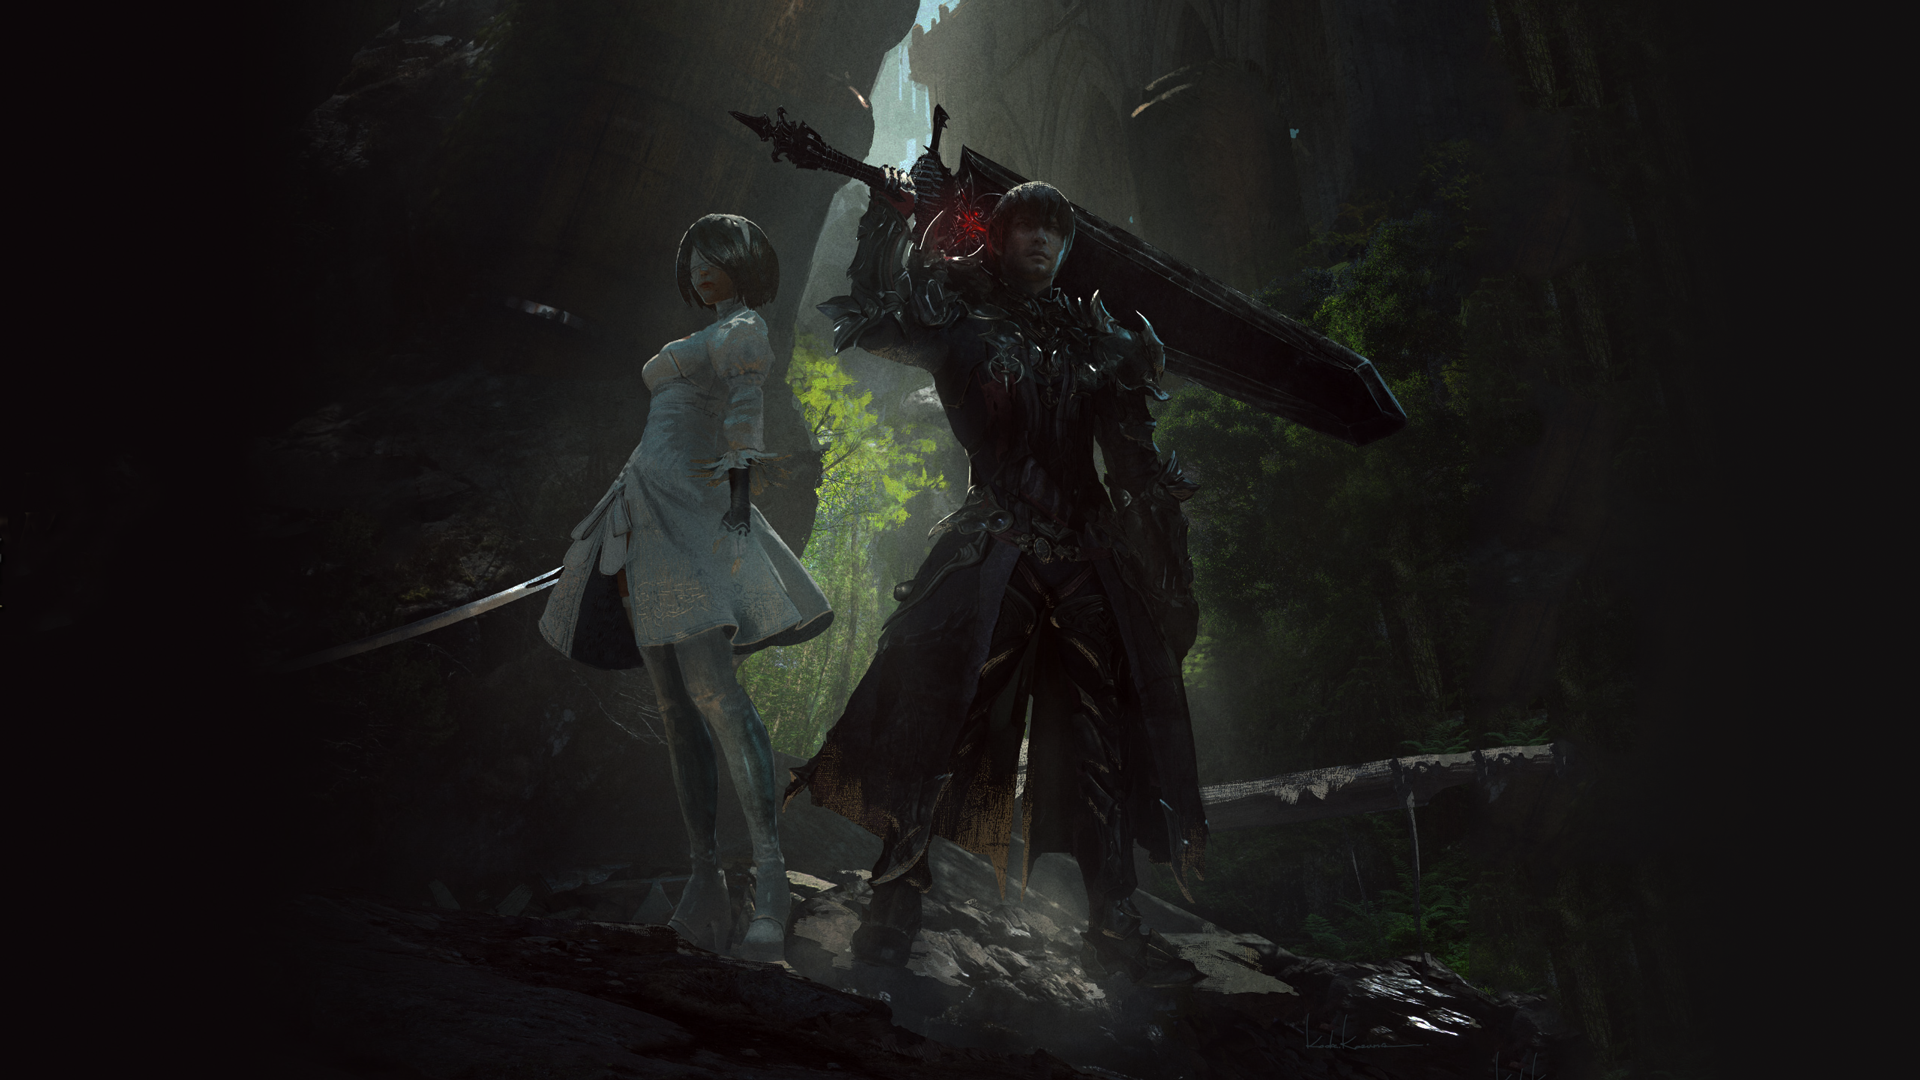
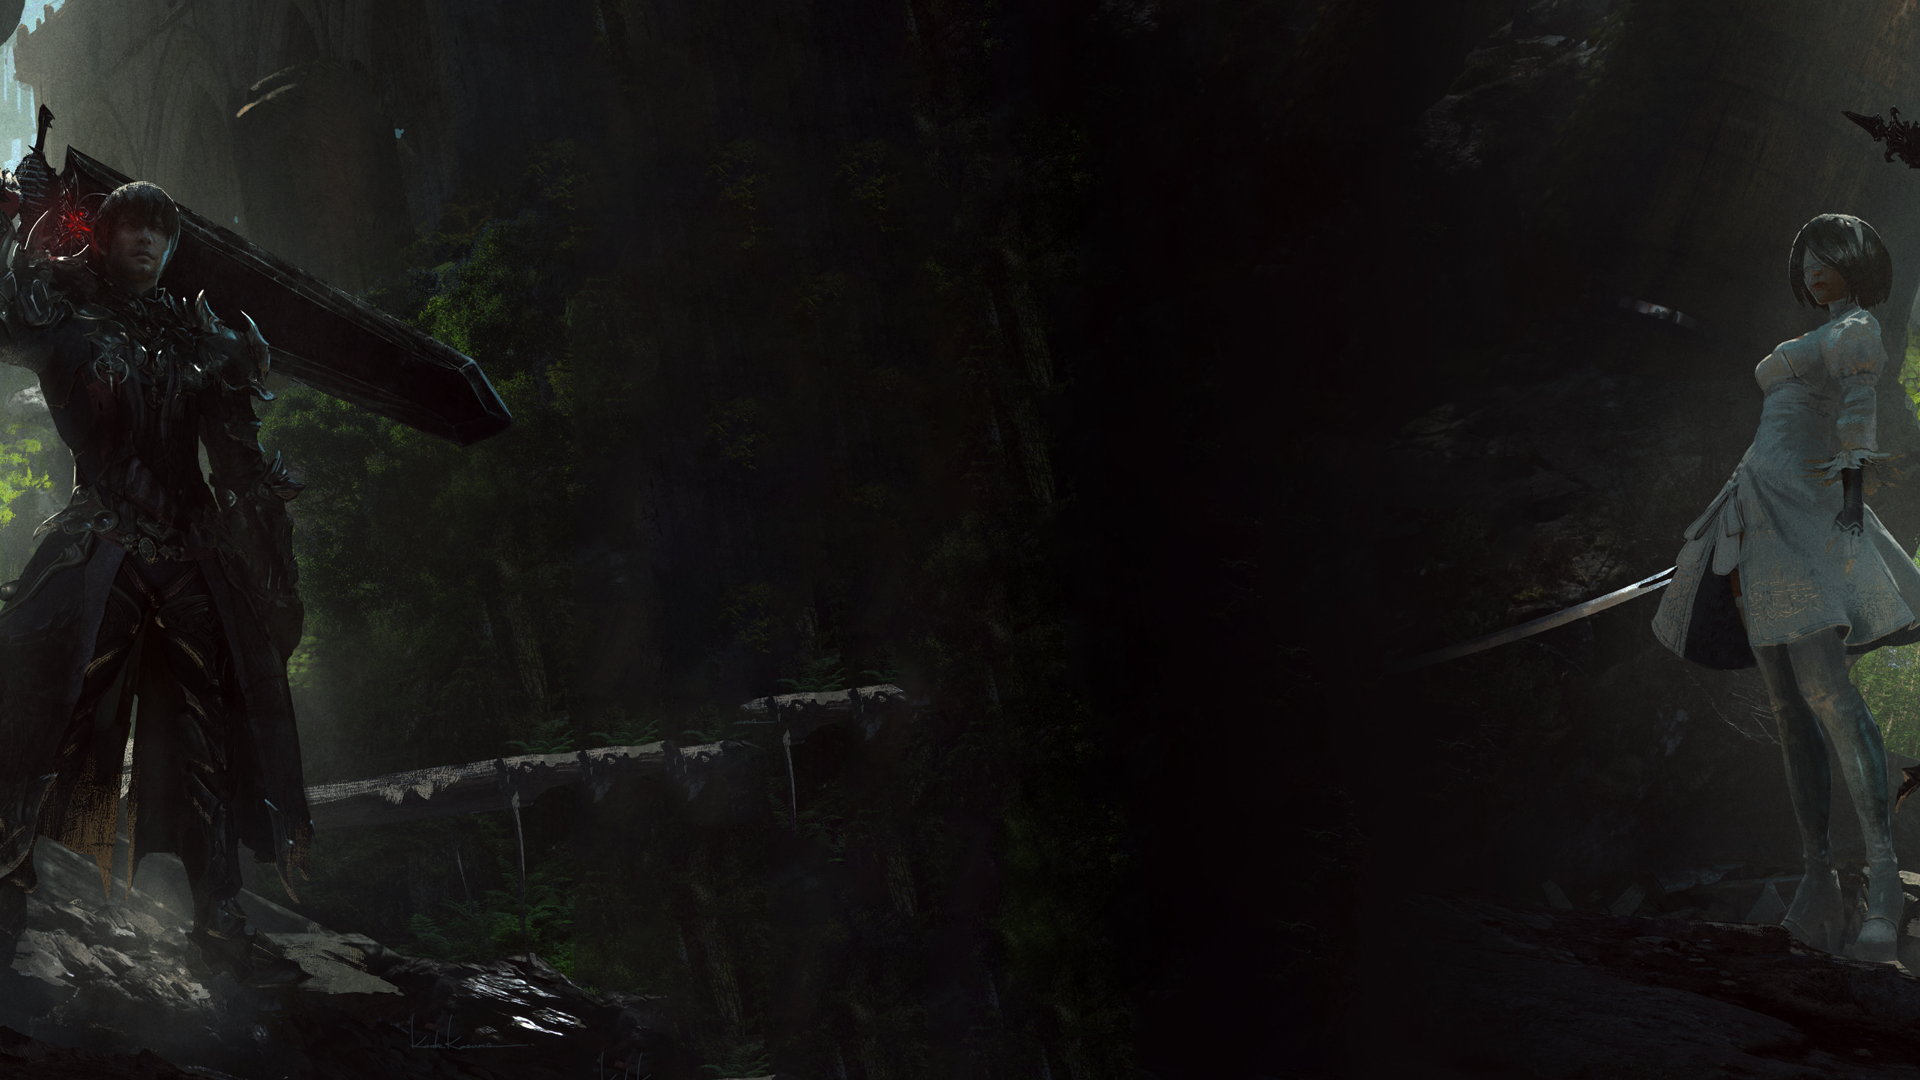
maj background + footer

diff --git a/assets/css/app.scss b/assets/css/app.scss
@@ -338,6 +338,7 @@ footer{
     width: 100%;
     background-color: $color-primary-1;
     color:$color-secondary-2;
+    font-size:10px;
 }
 
 .avatar {
